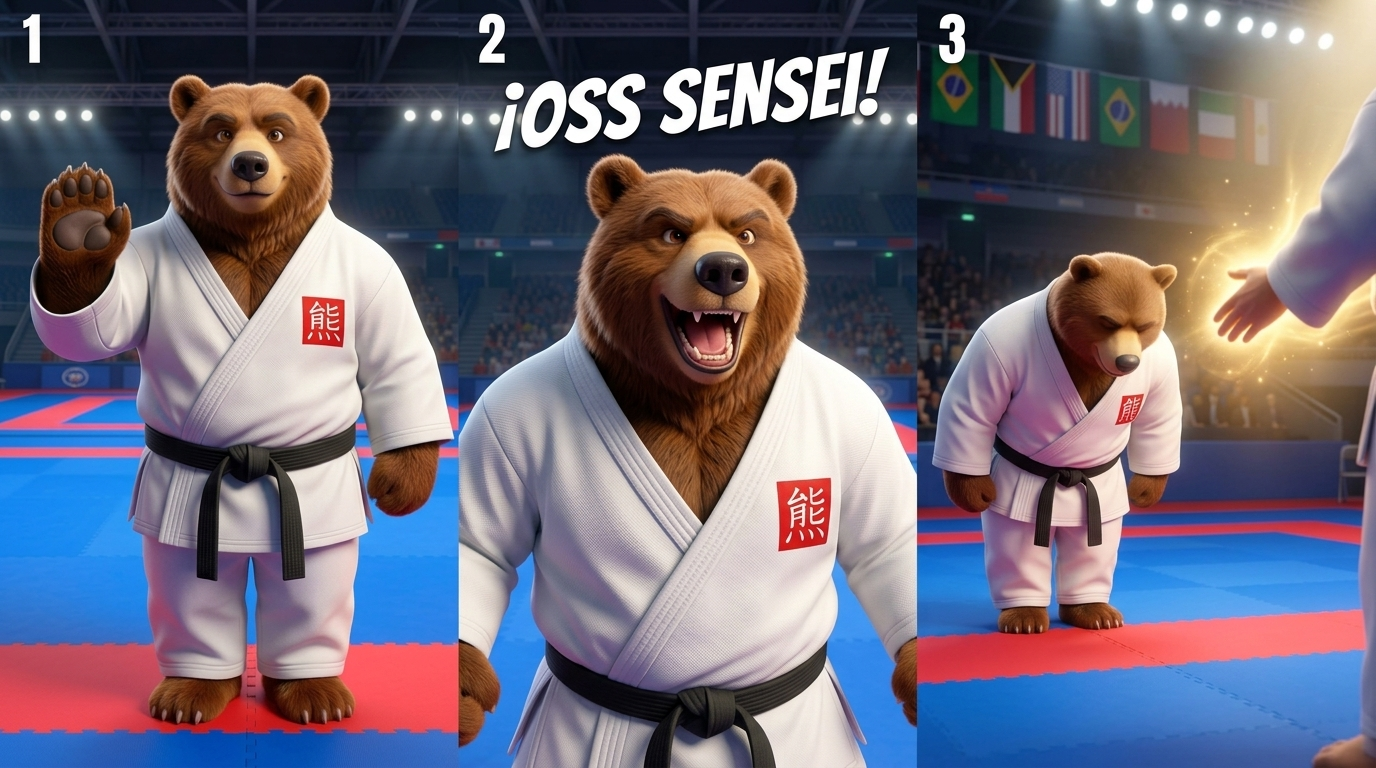
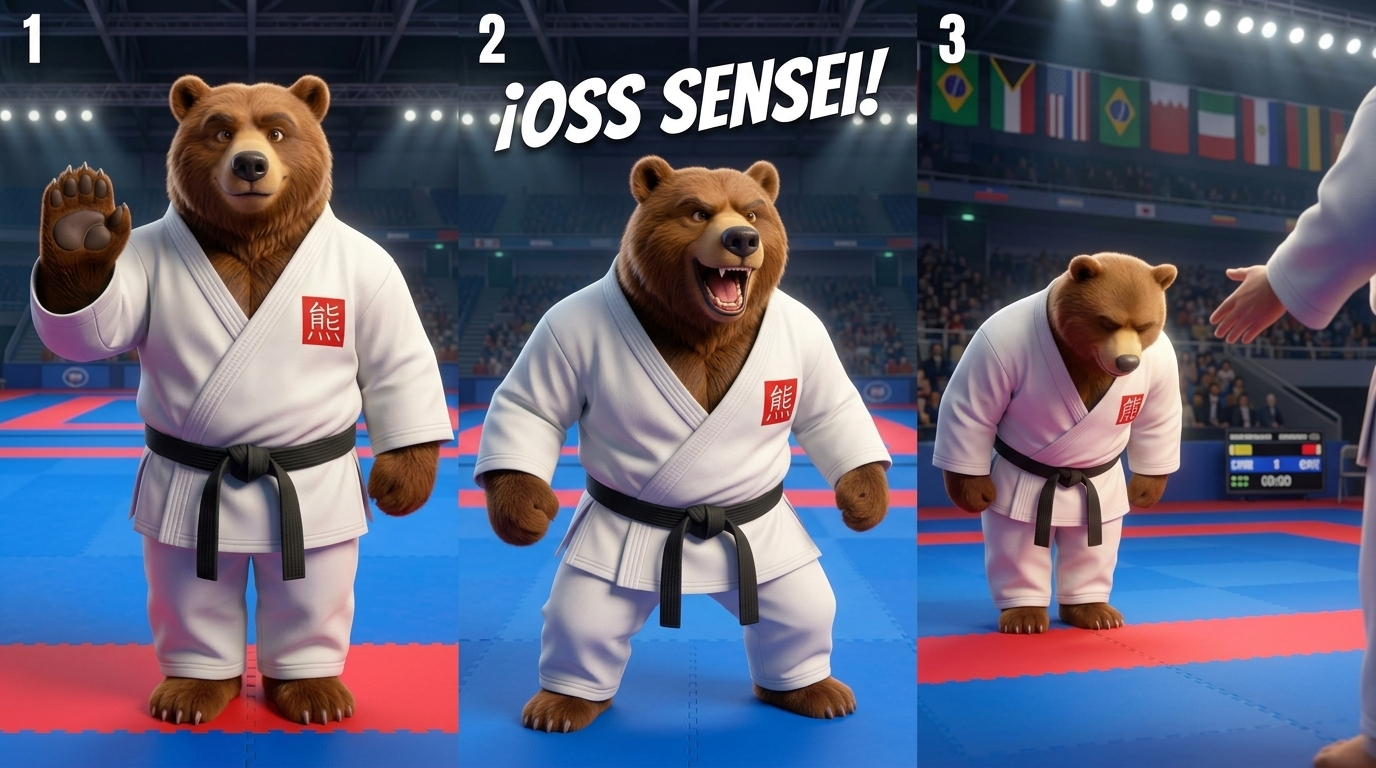
fix(didactica): remove skip button, remove Aprobado stamp, and remove luminosity from Sensei hand in 3rd panel

Changed region(s): [[0.3125, 0.1875, 0.6875, 1.0], [0.7812, 0.0, 1.0, 0.6562], [0.2188, 0.4062, 0.25, 0.4375]]

diff --git a/src/components/didactic/TatamiReiQuestion.tsx b/src/components/didactic/TatamiReiQuestion.tsx
@@ -45,9 +45,6 @@ export function TatamiReiQuestion({
     const [bowAngle, setBowAngle] = useState(0);
     const [isAutoBowing, setIsAutoBowing] = useState(false);
 
-    // Sello Hanko y Victoria
-    const [hasStampedHanko, setHasStampedHanko] = useState(false);
-
     const speechRef = useRef<SpeechSynthesisUtterance | null>(null);
 
     // Web Audio: Pisada firme en borde del tatami ("Tak")
@@ -235,7 +232,6 @@ export function TatamiReiQuestion({
                 setTimeout(() => {
                     // PASO 4: Aprobación del Sensei/Senpai para ingresar al tatami
                     setCurrentStep(4);
-                    setHasStampedHanko(true);
                     didacticSound.playCorrect();
 
                     confetti({
@@ -261,7 +257,6 @@ export function TatamiReiQuestion({
         setIsStep2Done(false);
         setIsStep3Done(false);
         setBowAngle(0);
-        setHasStampedHanko(false);
         didacticSound.playClick();
     };
 
@@ -353,39 +348,7 @@ export function TatamiReiQuestion({
                             <ArrowCounterClockwise className="w-4 h-4" weight="bold" />
                         </button>
 
-                        {isSuperAdmin && (
-                            <button
-                                type="button"
-                                onClick={() => {
-                                    onCompleted();
-                                    if (onCheckAndNext) onCheckAndNext();
-                                }}
-                                className="px-3 py-1.5 bg-purple-900/90 hover:bg-purple-800 text-purple-200 text-xs sm:text-sm font-bold rounded-xl border border-purple-500/50 backdrop-blur-md shadow-sm"
-                            >
-                                ⚡ Omitir
-                            </button>
-                        )}
                     </div>
-
-                    {/* SELLO HANKO DE APROBACIÓN CUANDO SE COMPLETA */}
-                    <AnimatePresence>
-                        {hasStampedHanko && (
-                            <motion.div
-                                initial={{ scale: 3, opacity: 0, rotate: -25 }}
-                                animate={{ scale: 1, opacity: 1, rotate: -6 }}
-                                transition={{ type: "spring", stiffness: 280, damping: 18 }}
-                                className="absolute bottom-5 right-5 z-30 pointer-events-none"
-                            >
-                                <div className="w-28 h-28 sm:w-36 sm:h-36 border-4 border-red-600 bg-red-700/95 text-white rounded-2xl flex flex-col items-center justify-center p-2 shadow-[0_0_40px_rgba(220,38,38,0.9)] backdrop-blur-sm select-none">
-                                    <div className="border border-red-300/60 w-full h-full rounded-xl flex flex-col items-center justify-center p-1">
-                                        <span className="text-[11px] font-black tracking-widest text-red-200 uppercase">APROBADO</span>
-                                        <span className="text-3xl sm:text-4xl font-black font-serif my-0.5 tracking-wider text-red-100 drop-shadow">礼</span>
-                                        <span className="text-[10px] font-bold text-red-200 tracking-wider">DOJO KUN</span>
-                                    </div>
-                                </div>
-                            </motion.div>
-                        )}
-                    </AnimatePresence>
 
                     {/* BADGE INFORMATIVO INFERIOR */}
                     <div className="absolute bottom-3 left-3 sm:bottom-4 sm:left-4 z-20 bg-slate-950/90 backdrop-blur-md px-3.5 py-1.5 rounded-full border border-slate-700 text-xs sm:text-sm font-bold text-slate-200">
